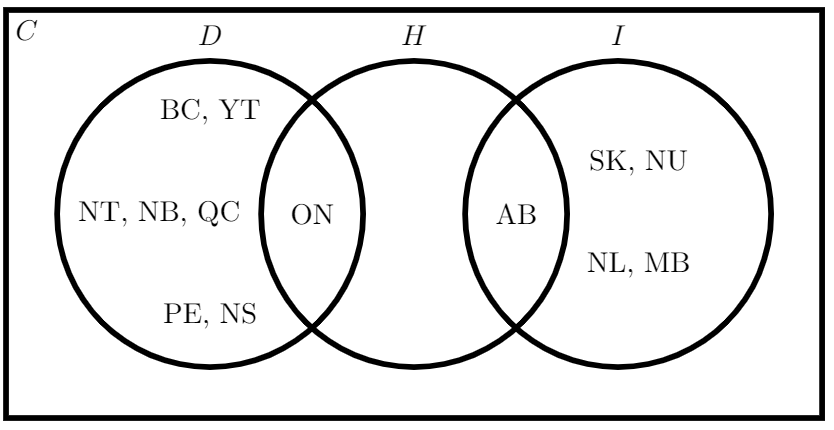
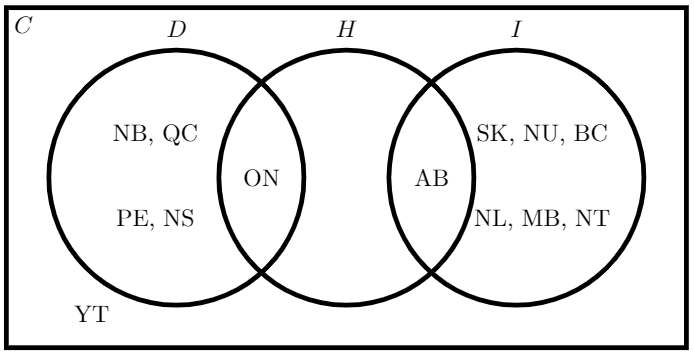
revised fig

diff --git a/_posts/2019-10-13-GHG-emissions-by-province-and-territories.html b/_posts/2019-10-13-GHG-emissions-by-province-and-territories.html
@@ -1,134 +1,38 @@
----
-layout: post
-title: GHG emissions by provinces and territories
-category: Set theory
-description:
-tags: Problem solving
-level: moderate
-grade: 12
-course: 30-2
-sourcetitle: Greenhouse gas sources and sinks executive summary 2019. Government of Canada.
-sourceurl: https://www.canada.ca/en/environment-climate-change/services/climate-change/greenhouse-gas-emissions/sources-sinks-executive-summary-2019.html#toc6
-qrcode:
-video:
-published: true
----
-<p>Climate change is one of the most important environmental issues of our time. Climate change is caused by the increase in concentrations of greenhouse gases (GHGs) in the atmosphere such as carbon dioxide (CO2). These increases are primarily due to human activities such as the use of fossil fuels or agriculture. In Canada GHG emissions vary significantly by province as a result of population, energy sources and economic structure. The following table summarizes the GHG emissions by provinces and territories between 1990 and 2017 in megatonnes of CO2 equivalent.</p>
-<table class="table table-bordered">
-  <thead>
-    <tr>
-      <th scope="col">Province/territory</th>
-      <th scope="col">1990</th>
-      <th scope="col">2017</th>
-    </tr>
-  </thead>
-  <tbody>
-    <tr>
-      <td>NL</td>
-      <td>9.4</td>
-      <td>10</td>
-    </tr>
-    <tr>
-      <td>PE</td>
-      <td>1.9</td>
-      <td>1.8</td>
-    </tr>
-    <tr>
-      <td>NS</td>
-      <td>20</td>
-      <td>16</td>
-    </tr>
-    <tr>
-      <td>NB</td>
-      <td>16</td>
-      <td>14</td>
-    </tr>
-    <tr>
-      <td>QC</td>
-      <td>86</td>
-      <td>78</td>
-    </tr>
-    <tr>
-      <td>ON</td>
-      <td>180</td>
-      <td>159</td>
-    </tr>
-    <tr>
-      <td>MB</td>
-      <td>18</td>
-      <td>22</td>
-    </tr>
-    <tr>
-      <td>SK</td>
-      <td>44</td>
-      <td>78</td>
-    </tr>
-    <tr>
-      <td>AB</td>
-      <td>173</td>
-      <td>273</td>
-    </tr>
-    <tr>
-      <td>BC</td>
-      <td>52</td>
-      <td>62</td>
-    </tr>
-    <tr>
-      <td>YT</td>
-      <td>0.5</td>
-      <td>0.5</td>
-    </tr>
-    <tr>
-      <td>NT</td>
-      <td>0</td>
-      <td>1.2</td>
-    </tr>
-    <tr>
-      <td>NU</td>
-      <td>0.4</td>
-      <td>0.6</td>
-    </tr>
-  </tbody>
-</table>
+\documentclass{article}
+\usepackage{tikz}
+\begin{document}
 
-<ol>
-  <li>List the elements of the universal set, $C$, of Canadian provinces and territories.</li>
-  <li>List the set, $D$, of provinces and territories where the GHG emission decreased between 1990 and 2017 in set notation. How is $D$ related to $C$?</li>
-  <li>List the set, $I$, of provinces and territories where the GHG emission increased between 1990 and 2017 in set notation. How is $I$ related to $C$?</li>
-  <li>List the set, $H$, of provinces and territories where the GHG emission exceed 100 megatonnes of CO2 equivalent in 2017 in set notation. How is $H$ related to $D$ and $I$?</li>
-  <li>The complement of $H$ is $H^{\prime}$. Describe what $H^{\prime}$ contains.</li>
-  <li>Consider the sets $C$, $D$, $I$, $H$. List the pairs of disjoint sets.</li>
-  <li>Use set notation to show which sets are subsets of one another.</li>
-  <li>Draw a Venn Diagram representing $C$, $D$, $I$, $H$. List all elements in the appropriate circle(s).
-</ol>
+% Definition of circles
+\def\firstcircle{(0,0) circle (1.5cm)}
+\def\secondcircle{(0:2cm) circle (1.5cm)}
+\def\thirdcircle{(0:4cm) circle (1.5cm)}
 
-<!--  -->
-{% if true %}
-  <div class="accordion" id="accordionExample">
-    <div class="card">
-      <div class="card-header" id="headingOne">
-        <h5 class="mb-0">
-          <button class="btn btn-link" type="button" data-toggle="collapse" data-target="#collapseOne" aria-expanded="false" aria-controls="collapseOne">
-            <h2>Solution</h2>
-          </button>
-        </h5>
-      </div>
-      <div id="collapseOne" class="collapse" aria-labelledby="headingOne" data-parent="#accordionExample">
-        <div class="card-body">
-          <!--- Start solution --->
-          <ol>
-            <li>$C = \{ NL,PE,NS,NB,QC,ON,MB,SK,AB,BC,YT,NT,NU \}$</li>
-            <li>$D = \{ PE,NS,NB,QC,ON,BC,YT,NT \}$ where $D \subset C$</li>
-            <li>$I = \{ NL,MB,SK,AB,NU \}$ where $I \subset C$</li>
-            <li>$H = \{ ON, AB \}$ where $H \subset D$ and $I \subset D$</li>
-            <li>$H$ represents the provinces and territories with GHG emissions of less than 100 megatonnes of CO2 equivalent in 2017.</li>
-            <li>$D$ and $I$</li>
-            <li>$D \subset C$, $H \subset C$, $I \subset C$</li>
-            <li><img src="http://maythemathbewithyou.com/tex/ghg-emissions-by-provinces-and-territories.png" width=100%>
-          </ol>
-          <!--- End solution --->
-        </div>
-      </div>
-    </div>
-  </div>
-{% endif %}
+\colorlet{circle edge}{black}
+\colorlet{circle area}{black}
+
+\tikzset{filled/.style={fill=circle area, draw=circle edge, thick},
+    outline/.style={draw=circle edge, thick}}
+
+\setlength{\parskip}{5mm}
+\begin{tikzpicture}
+    \draw[ultra thick] (-2,-2) -- (-2,2) -- (6,2) -- (6,-2) -- (-2,-2);
+
+    \draw[outline, ultra thick] \firstcircle;
+    \draw[outline, ultra thick] \secondcircle;
+    \draw[outline, ultra thick] \thirdcircle;
+    \node[scale=.8] at (0,1.75) {$D$};
+    \node[scale=.8] at (2,1.75) {$H$};
+    \node[scale=.8] at (4,1.75) {$I$};
+    \node[scale=.8] at (-1.8,1.8) {$C$};
+
+    \node[scale=.8] at (-.25,-0.5) {PE, NS};
+    \node[scale=.8] at (-.25,0.5) {NB, QC};
+    \node[scale=.8] at (1,0) {ON};
+
+    \node[scale=.8] at (4.3,-.5) {NL, MB, NT};
+    \node[scale=.8] at (4.3,.5) {SK, NU, BC};
+    \node[scale=.8] at (3,0) {AB};
+
+    \node[scale=.8] at (-1,-1.6) {YT};
+\end{tikzpicture}
+\end{document}
